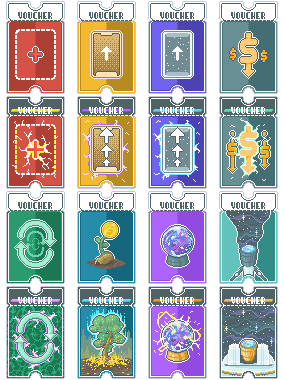
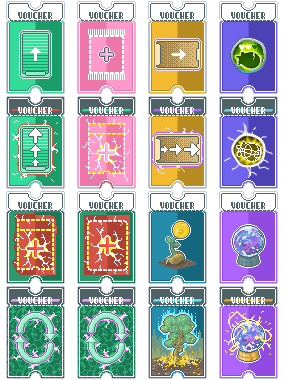
v0.2.5 vouchers + rose

diff --git a/README.md b/README.md
@@ -2,4 +2,4 @@
 
 A Balatro mod that incorporates Bloons Tower Defense into the base game
 
-Includes 135 new Jokers, 14 new Decks, and more!
+Includes 135 new Jokers, 15 new Decks, and more!
